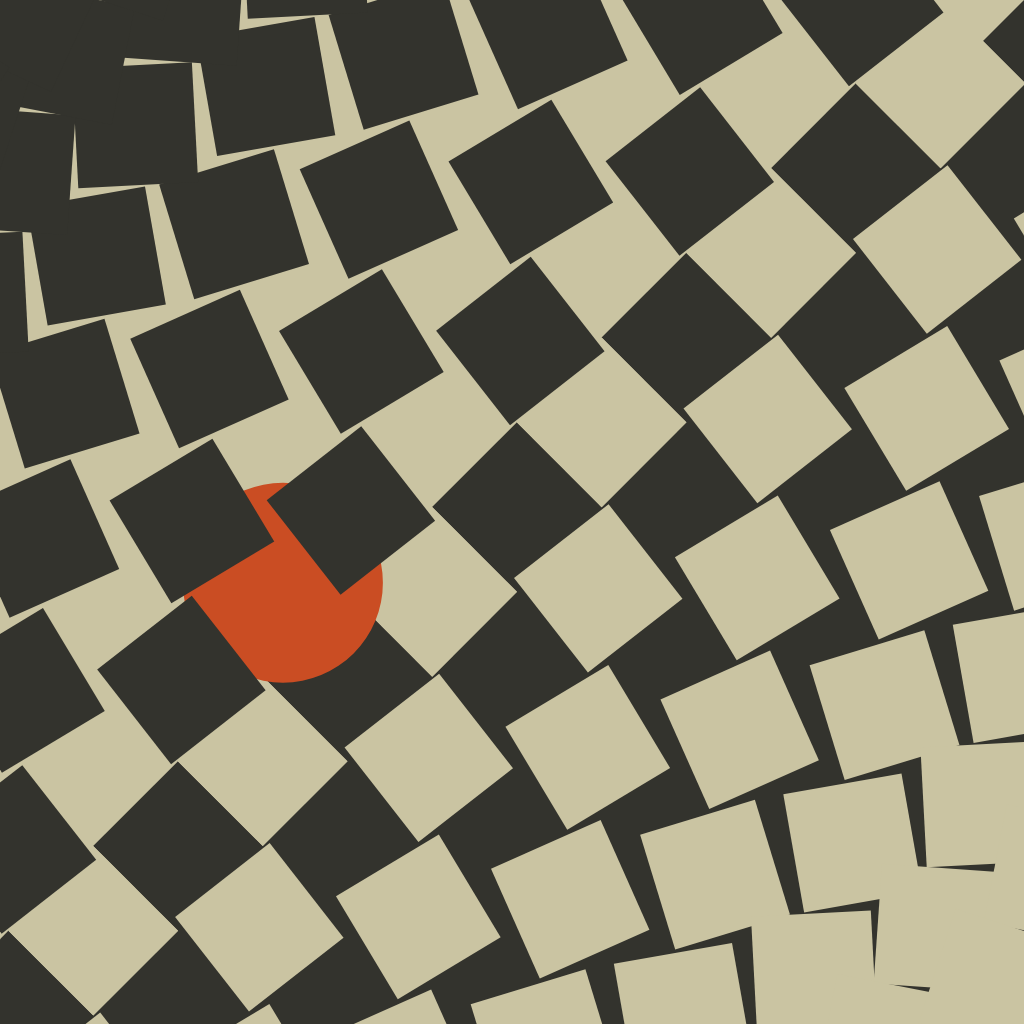
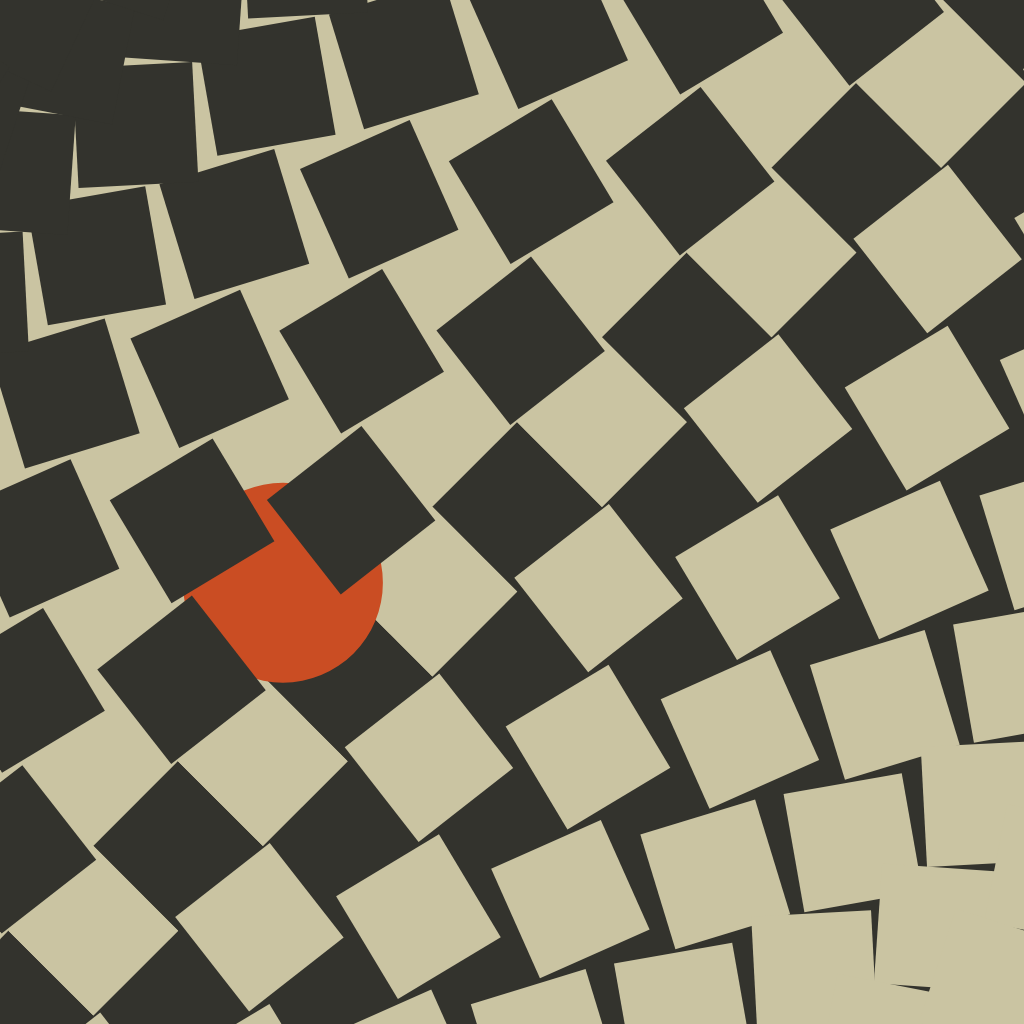
falling squares FIX

Changed region(s): [[0.9062, 0.0, 1.0, 0.0312]]

diff --git a/gart/src/main/kotlin/dev/oblac/gart/color/colorMatrix.kt b/gart/src/main/kotlin/dev/oblac/gart/color/colorMatrix.kt
@@ -18,7 +18,7 @@ object ColorMatrices {
             r - r * sat, g - g * sat, b + (1 - b) * sat, 0f, 0f,
             0f, 0f, 0f, 1f, 0f
         )
-        return ColorMatrix(*arr)
+        return ColorMatrix(arr)
     }
 
     fun brightness(brightness: Float): ColorMatrix {
@@ -28,7 +28,7 @@ object ColorMatrices {
             0f, 0f, 1f, 0f, brightness * 255,
             0f, 0f, 0f, 1f, 0f
         )
-        return ColorMatrix(*arr)
+        return ColorMatrix(arr)
     }
 
     fun contrast(contrast: Float): ColorMatrix {
@@ -44,7 +44,7 @@ object ColorMatrices {
             0f, 0f, scale, 0f, translate,
             0f, 0f, 0f, 1f, 0f
         )
-        return ColorMatrix(*arr)
+        return ColorMatrix(arr)
     }
 
     fun grayscale(): ColorMatrix {
@@ -58,7 +58,7 @@ object ColorMatrices {
             r, g, b, 0f, 0f,
             0f, 0f, 0f, 1f, 0f
         )
-        return ColorMatrix(*arr)
+        return ColorMatrix(arr)
     }
 
     fun invert(): ColorMatrix {
@@ -68,7 +68,7 @@ object ColorMatrices {
             0f, 0f, -1f, 0f, 255f,
             0f, 0f, 0f, 1f, 0f
         )
-        return ColorMatrix(*arr)
+        return ColorMatrix(arr)
     }
 
     fun sepia(): ColorMatrix {
@@ -78,7 +78,7 @@ object ColorMatrices {
             0.272f, 0.534f, 0.131f, 0f, 0f,
             0f, 0f, 0f, 1f, 0f
         )
-        return ColorMatrix(*arr)
+        return ColorMatrix(arr)
     }
 
     fun hueRotate(degrees: Float): ColorMatrix {
@@ -96,7 +96,7 @@ object ColorMatrices {
             r + cosVal * (-r) + sinVal * (-(1 - r)), g + cosVal * (-g) + sinVal * (g), b + cosVal * (1 - b) + sinVal * (b), 0f, 0f,
             0f, 0f, 0f, 1f, 0f
         )
-        return ColorMatrix(*arr)
+        return ColorMatrix(arr)
     }
 }
 
@@ -117,7 +117,7 @@ fun ColorMatrix.concat(other: ColorMatrix): ColorMatrix {
         }
     }
 
-    return ColorMatrix(*result)
+    return ColorMatrix(result)
 }
 
 

diff --git a/arts/rectapart/src/main/kotlin/dev/oblac/gart/fallsquares/FallSquares.kt b/arts/rectapart/src/main/kotlin/dev/oblac/gart/fallsquares/FallSquares.kt
@@ -51,7 +51,7 @@ private fun draw(c: Canvas, d: Dimension) {
     c.rotate(-45f, d.cx, d.cy)
 
     // middle line
-    val line0 = Line(d.leftMiddle, d.rightMiddle).shortenByLen(-200f)
+    val line0 = Line(d.leftMiddle, d.rightMiddle.offset(100f, 0f)).shortenByLen(-200f)
     line0.rectsOnLine(square, square, Degrees(0f), square).forEachIndexed { i, rect ->
         val color = pal.safe(i)
         c.drawPoly4(rect, fillOf(color))

diff --git a/arts/sixsix/src/main/kotlin/dev/oblac/gart/sixsix/bw/SixSixBw.kt b/arts/sixsix/src/main/kotlin/dev/oblac/gart/sixsix/bw/SixSixBw.kt
@@ -62,7 +62,7 @@ private fun draw(d: Dimension, index: Int): Image {
     val gap = 10f
 
     val rRect = RRect.makeXYWH(gap, gap, d.wf - 2 * gap, d.hf - 2 * gap, 2 * gap, 2 * gap)
-    c.clipRRect(rRect)
+    c.clipRRect(rRect, true)
     c.drawRect(d.rect, fillOf(black))
 
 
